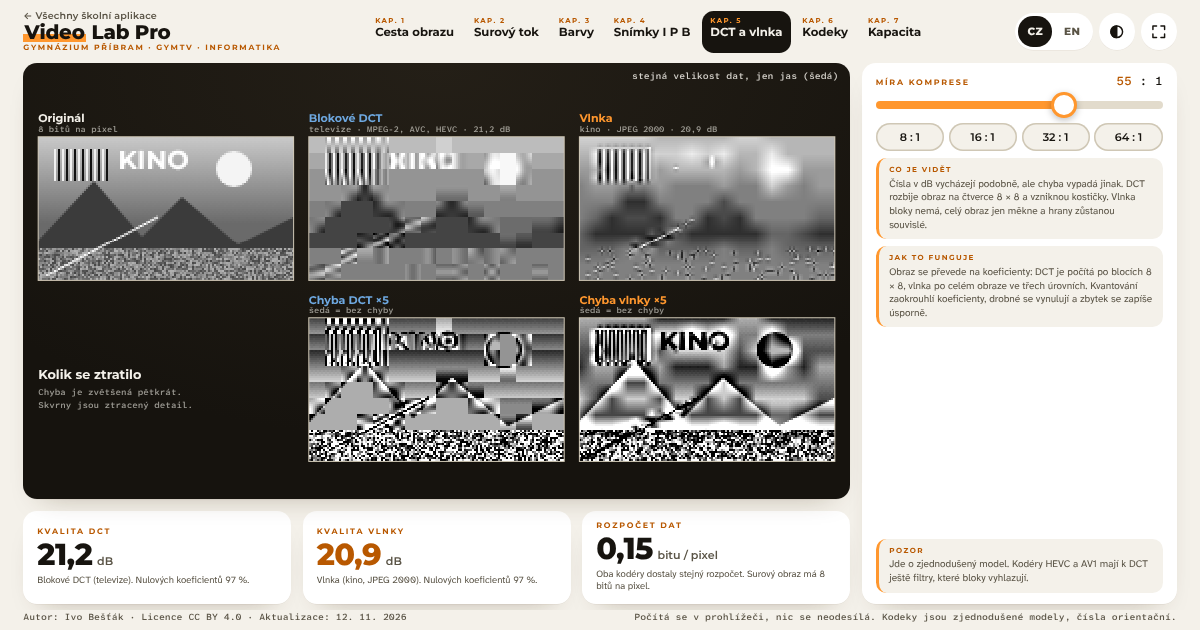
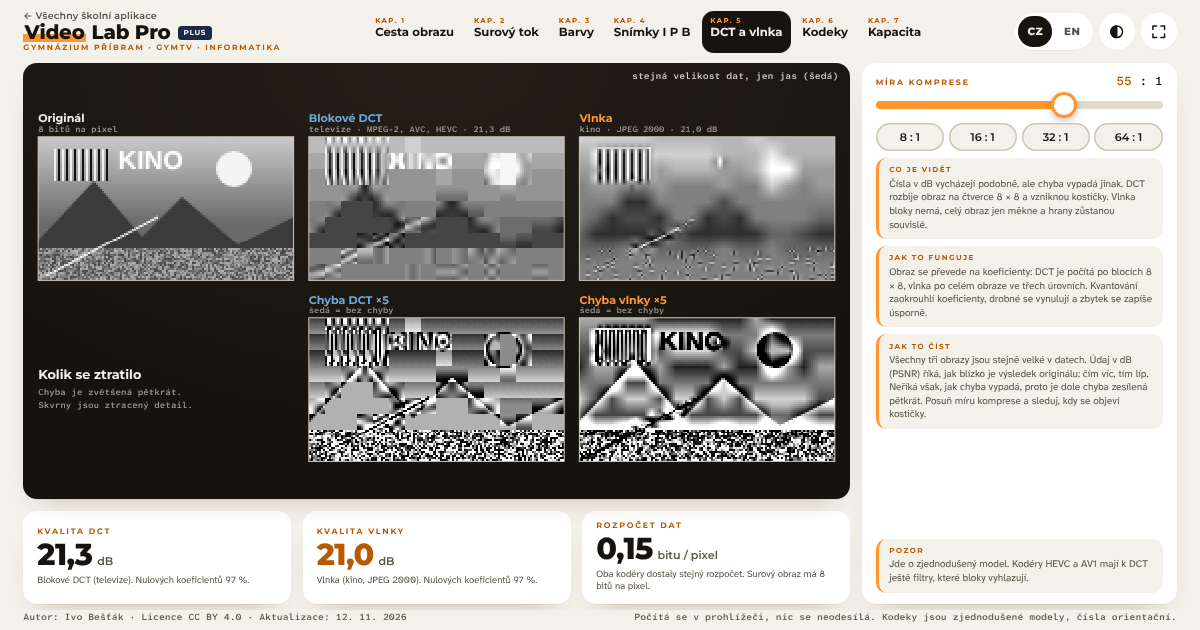
Video Lab Pro: vysvětlující texty a štítek PLUS na celou aplikaci
Claude-Session: https://claude.ai/code/session_01HrWVDL3h42k2gBAKEL8zUt

diff --git a/video-lab-pro/index.html b/video-lab-pro/index.html
@@ -4,7 +4,7 @@
 <meta charset="utf-8">
 <meta name="viewport" content="width=device-width, initial-scale=1">
 <title>Video Lab Pro</title>
-<meta name="description" content="Interaktivní laboratoř kódování a komprese videa pro televizi a kino: datový tok surového obrazu, podvzorkování barev, snímky I, P a B, blokové DCT a vlnka, kodeky MPEG-2, H.264, HEVC, AV1 a JPEG 2000 a kapacita multiplexu i velikost filmu. Určeno pro projekci a velké dotykové panely, pro mobily není vhodná.">
+<meta name="description" content="Interaktivní laboratoř kódování a komprese videa pro televizi a kino: datový tok surového obrazu, podvzorkování barev, snímky I, P a B, blokové DCT a vlnka, kodeky MPEG-2, H.264, HEVC, AV1 a JPEG 2000 a kapacita multiplexu i velikost filmu. Určeno pro projekci a velké dotykové panely, pro mobily není vhodná. Celá aplikace je nad rámec učiva (PLUS).">
 <meta name="author" content="Ivo Bešťák">
 <link rel="icon" href="../favicon.svg" type="image/svg+xml">
 <link rel="stylesheet" href="../assets/fonty/fonty.css">
@@ -132,6 +132,9 @@ input[type=range]::-moz-range-thumb{width:1.7rem;height:1.7rem;border-radius:50%
 .rd{display:grid;grid-template-columns:auto 1fr;gap:.3rem .9rem;font:500 .86rem/1.25 var(--f-mono)}
 .rd span{color:var(--ink2)}.rd b{font-weight:500;text-align:right}.rd b.hot{color:var(--orange-t)}
 .col>.scope.grow{min-height:9rem}
+.brand b span.plus{display:inline-block;vertical-align:middle;margin-left:.6rem;padding:.2rem .5rem;border-radius:.3rem;background:#1b2a4a;color:#fff;font:700 .62rem/1.2 var(--f-head);letter-spacing:.1em}
+:root[data-theme=dark] .brand b span.plus{background:#9db0d8;color:#0f161b}
+@media (prefers-color-scheme:dark){:root:not([data-theme=light]) .brand b span.plus{background:#9db0d8;color:#0f161b}}
 @media (max-aspect-ratio:1/1){
 html{font-size:clamp(9px,1.9vw,22px)}body{overflow:auto}.app{height:auto;min-height:100vh}#stage{overflow:visible}
 .split{grid-template-columns:1fr}.scope{min-height:34rem}.top{grid-template-columns:1fr}.tabs{flex-wrap:wrap}.kpis{grid-template-columns:1fr}}
@@ -141,7 +144,7 @@ html{font-size:clamp(9px,1.9vw,22px)}body{overflow:auto}.app{height:auto;min-hei
 <body>
 <div class="app">
  <header class="top">
-  <div class="brand"><a class="back" href="../" id="tBack">← Všechny školní aplikace</a><b><span>Video</span> Lab Pro</b><small id="tSub">Gymnázium Příbram · GymTV · Informatika</small></div>
+  <div class="brand"><a class="back" href="../" id="tBack">← Všechny školní aplikace</a><b><span>Video</span> Lab Pro<span class="plus" id="tPlus">PLUS</span></b><small id="tSub">Gymnázium Příbram · GymTV · Informatika</small></div>
   <nav class="tabs" id="tabs" role="tablist" aria-label="Záložky"></nav>
   <div class="tools">
    <div class="lang" role="group" aria-label="Jazyk / Language"><button data-act="lang" data-v="cs" lang="cs">CZ</button><button data-act="lang" data-v="en" lang="en">EN</button></div>
@@ -254,9 +257,10 @@ ACT.full=()=>{if(document.fullscreenElement)document.exitFullscreen();else docum
 function boot(){
  try{const th=localStorage.getItem('vlp-theme');if(th==='dark'||th==='light')document.documentElement.dataset.theme=th}catch(e){}
  document.documentElement.lang=LANG;document.title='Video Lab Pro';
- $('meta[name=description]').content=tx('Interaktivní laboratoř kódování a komprese videa pro televizi a kino: datový tok, podvzorkování barev, snímky I, P a B, DCT a vlnka, kodeky a kapacita. Určeno pro projekci a velké dotykové panely, pro mobily není vhodná.','Interactive lab on video coding and compression for television and cinema: data rate, chroma subsampling, I, P and B frames, DCT and wavelets, codecs and capacity. Made for projection and large touch panels, not for phones.');
+ $('meta[name=description]').content=tx('Interaktivní laboratoř kódování a komprese videa pro televizi a kino: datový tok, podvzorkování barev, snímky I, P a B, DCT a vlnka, kodeky a kapacita. Celá aplikace je nad rámec učiva (PLUS). Určeno pro projekci a velké dotykové panely, pro mobily není vhodná.','Interactive lab on video coding and compression for television and cinema: data rate, chroma subsampling, I, P and B frames, DCT and wavelets, codecs and capacity. The whole app goes beyond the curriculum (PLUS). Made for projection and large touch panels, not for phones.');
  $('#tBack').textContent=tx('← Všechny školní aplikace','← All school apps');$('#tSub').textContent=tx('Gymnázium Příbram · GymTV · Informatika','Gymnázium Příbram · GymTV · Computer science');
  $('#tabs').setAttribute('aria-label',tx('Záložky','Tabs'));
+ $('#tPlus').title=tx('Celá aplikace jde nad rámec učiva přiřazených ročníků','The whole app goes beyond the curriculum of the assigned years');
  $('#bThm').setAttribute('aria-label',tx('Světlý nebo tmavý vzhled','Light or dark theme'));$('#bFul').setAttribute('aria-label',tx('Celá obrazovka','Fullscreen'));
  $$('.lang button').forEach(b=>b.classList.toggle('on',b.dataset.v===LANG));
  $('#fL').textContent=tx('Autor: Ivo Bešťák · Licence CC BY 4.0 · Aktualizace: 12. 11. 2026','Author: Ivo Bešťák · License CC BY 4.0 · Updated: 12. 11. 2026');
@@ -391,6 +395,8 @@ TABS.push({name:tx('Cesta obrazu','Picture path'),side:'27rem',
     <div class="ctl"><div class="hd"><span class="lbl">${tx('Formát','Format')}</span></div><div class="chips g2" data-o="fmts1"></div></div>
     <div class="ctl"><div class="hd"><span class="lbl">${tx('Etapa cesty','Stage of the path')}</span></div><div class="chips g2" data-o="stl1"></div></div>
     <div class="callout" data-o="d1"></div>
+    <div class="callout"><b class="l">${tx('Jak to číst','How to read it')}</b>${tx('Každý pruh je jedna etapa cesty. Šedý pruh je obraz bez komprese, modrý je stlačený. Délka pruhu je tok v bitech za sekundu na logaritmické ose, takže každý dílek je desetkrát víc. Kodér obraz stlačuje, dekodér ho vrací.','Each bar is one stage of the path. A grey bar is uncompressed picture, a blue one is compressed. Bar length is the rate in bits per second on a log axis, so every step is ten times more. An encoder compresses the picture, a decoder restores it.')}</div>
+    <div class="callout"><b class="l">${tx('Označení PLUS','PLUS label')}</b>${tx('Celá aplikace jde nad rámec učiva přiřazených ročníků.','The whole app goes beyond the curriculum of the assigned years.')}</div>
     <div class="callout" style="margin-top:auto"><b class="l">${tx('Co z toho plyne','Takeaway')}</b>${tx('Obraz je na začátku i na konci cesty stejně velký. Komprese je jen prostřední úsek, kde se obraz musí vejít do kanálu nebo na disk.','The picture is equally big at the start and at the end of the path. Compression is only the middle section, where the picture has to fit into a channel or onto a disk.')}</div>
    </div></div>`;
  },
@@ -461,6 +467,7 @@ TABS.push({name:tx('Surový tok','Raw data rate'),side:'27rem',
      <div class="chips g3">${['444','422','420'].map(f=>`<button class="chip" data-k="chroma" data-v="${f}">${CH[f].n}</button>`).join('')}</div></div>
     <div class="ctl"><div class="hd"><span class="lbl">${tx('Porovnat s kanálem','Compare with channel')}</span></div><div class="chips g3" data-o="pipes2"></div></div>
     <div class="callout" data-o="d2"></div>
+    <div class="callout"><b class="l">${tx('Jak to číst','How to read it')}</b>${tx('Surový tok je součin pěti čísel: pixely na šířku a na výšku, snímky za sekundu, bity na vzorek a vzorky na pixel. Změň kterékoli z nich a sleduj, jak se tok mění. Oranžová čárka je kapacita zvoleného kanálu a číslo nad ní říká, kolikrát je třeba obraz zmenšit, aby se do kanálu vešel.','The raw rate is a product of five numbers: pixels across and down, frames per second, bits per sample and samples per pixel. Change any of them and watch the rate. The orange line is the capacity of the chosen channel and the number above it says how many times the picture must shrink to fit.')}</div>
    </div></div>`;
  },
  render(){
@@ -586,6 +593,7 @@ TABS.push({name:tx('Barvy','Colour'),side:'27rem',
      <div style="height:6.2rem;position:relative"><canvas id="c3b" style="position:absolute;inset:0;width:100%;height:100%"></canvas></div>
      <p class="n">${tx('Černá tečka je vzorek jasu, oranžová plocha je jeden vzorek barvy.','A black dot is a luma sample, an orange area is one colour sample.')}</p></div>
     <div class="callout" data-o="d3"></div>
+    <div class="callout"><b class="l">${tx('Jak to číst','How to read it')}</b>${tx('Obraz se rozloží na jas (Y), který nese ostrost, a dva barevné rozdíly (Cb, Cr). Podvzorkování nechá jas v každém pixelu a barvu sdílí skupina pixelů. Čísla 4:2:0 popisují blok 4 × 2 pixely: kolik barevných vzorků je v horním a kolik ve spodním řádku. Podívej se na červený kruh a na pruhy, tam se chyba pozná nejlépe.','The picture is split into luma (Y), which carries sharpness, and two colour differences (Cb, Cr). Subsampling keeps luma in every pixel while a group of pixels shares colour. The numbers in 4:2:0 describe a block of 4 × 2 pixels: how many colour samples are in the top and in the bottom row. Look at the red circle and the stripes, the error shows best there.')}</div>
     <div class="callout" style="margin-top:auto"><b class="l">${tx('Proč to funguje','Why it works')}</b>${tx('Oko má mnohem víc tyčinek pro jas než čípků pro barvu, a proto ostrost vnímáme hlavně z jasu. Barevné detaily jde ztratit skoro bez povšimnutí.','The eye has far more rods for luminance than cones for colour, so sharpness is mostly seen in luma. Colour detail can be lost almost unnoticed.')}</div>
    </div></div>`;
  },
@@ -683,6 +691,7 @@ TABS.push({name:tx('Snímky I P B','I, P, B frames'),side:'27rem',
      <div class="seg"><button class="chip" data-k="mc" data-v="false">${tx('Vypnutá','Off')}</button><button class="chip" data-k="mc" data-v="true">${tx('Zapnutá','On')}</button></div></div>
     <div class="rd" data-o="r4"></div>
     <div class="callout" data-o="d4"></div>
+    <div class="callout"><b class="l">${tx('Jak to číst','How to read it')}</b>${tx('Snímek I je celý obraz jako fotka. P ukládá jen změny proti předchozímu snímku, B využívá snímek předchozí i následující. Dole je ukázka pohybu: bez predikce se uloží každá změna pixelu, s predikcí kodér jen určí, kam se předmět posunul, a uloží drobný zbytek.','An I frame is the whole picture like a photo. P stores only changes from the previous frame, B uses both the previous and the next one. Below is a motion demo: without prediction every pixel change is stored, with prediction the encoder only states where the object moved and stores a small residual.')}</div>
    </div></div>`;
  },
  render(){
@@ -893,6 +902,7 @@ TABS.push({name:tx('DCT a vlnka','DCT and wavelet'),side:'27rem',
      <div class="chips g4">${[8,16,32,64].map(v=>`<button class="chip" data-k="q5" data-v="${v}">${v} : 1</button>`).join('')}</div></div>
     <div class="callout" data-o="d5"></div>
     <div class="callout"><b class="l">${tx('Jak to funguje','How it works')}</b>${tx('Obraz se převede na koeficienty: DCT je počítá po blocích 8 × 8, vlnka po celém obraze ve třech úrovních. Kvantování zaokrouhlí koeficienty, drobné se vynulují a zbytek se zapíše úsporně.','The picture is turned into coefficients: DCT computes them in 8 × 8 blocks, a wavelet over the whole picture in three levels. Quantization rounds them, small ones become zero and the rest is stored compactly.')}</div>
+    <div class="callout"><b class="l">${tx('Jak to číst','How to read it')}</b>${tx('Všechny tři obrazy jsou stejně velké v datech. Údaj v dB (PSNR) říká, jak blízko je výsledek originálu: čím víc, tím líp. Neříká však, jak chyba vypadá, proto je dole chyba zesílená pětkrát. Posuň míru komprese a sleduj, kdy se objeví kostičky.','All three pictures take the same amount of data. The dB value (PSNR) says how close the result is to the original: more is better. It does not tell how the error looks, so the error is magnified five times below. Move the compression ratio and see when blocks appear.')}</div>
     <div class="callout" style="margin-top:auto"><b class="l">${tx('Pozor','Note')}</b>${tx('Jde o zjednodušený model. Kodéry HEVC a AV1 mají k DCT ještě filtry, které bloky vyhlazují.','This is a simplified model. HEVC and AV1 encoders add filters to the DCT that smooth the blocks.')}</div>
    </div></div>`;
  },
@@ -961,7 +971,7 @@ TABS.push({name:tx('Kodeky','Codecs'),side:'27rem',
     <div class="ctl"><div class="hd"><span class="lbl">${tx('Kodek','Codec')}</span></div><div class="chips g2" data-o="cdl"></div></div>
     <div class="rd" data-o="r6"></div>
     <div class="callout" data-o="d6"></div>
-    <div class="callout" style="margin-top:auto"><b class="l">${tx('Pozor','Note')}</b>${tx('Toky jsou orientační model podle běžných zkušeností. Skutečný tok závisí na obsahu, kodéru i nastavení.','The rates are an approximate model based on common experience. The real rate depends on content, encoder and settings.')}</div>
+    <div class="callout"><b class="l">${tx('Jak to číst','How to read it')}</b>${tx('Délka pruhu je tok pro Full HD při stejném vizuálním dojmu. Procenta vpravo ukazují tok proti MPEG-2. Kodeky s predikcí mezi snímky jsou úsporné, ale snímky na sobě závisejí. ProRes a JPEG 2000 ukládají každý snímek zvlášť: tok je mnohem vyšší, ale střih a přístup k libovolnému snímku jsou snadné.','Bar length is the rate for Full HD at the same visual quality. Percentages on the right show the rate against MPEG-2. Codecs with prediction between frames are economical, but frames depend on each other. ProRes and JPEG 2000 store each frame alone: the rate is much higher, but editing and access to any frame are easy.')}</div>
    </div></div>`;
  },
  init(){
@@ -1021,7 +1031,7 @@ OUT.fmt7=()=>F7.map(f=>`<button class="chip${S.f7===f?' on':''}" data-k="f7" dat
 OUT.d7=()=>{
  const r=rate(S.c7),n=Math.floor(cap()/r);
  return n<1?`<b class="l">${tx('Nevejde se','Does not fit')}</b>${tx('Jeden program je větší než celý kanál. Je třeba účinnější kodek nebo menší obraz.','One programme is bigger than the whole channel. A more efficient codec or a smaller picture is needed.')}`
- :`<b class="l">${tx('Proč se to řeší','Why it matters')}</b>${tx('Kapacita kanálu je pevná, takže každý bit ušetřený kodekem znamená místo pro další program nebo lepší obraz. Proto televize přecházejí od MPEG-2 na HEVC.','Channel capacity is fixed, so every bit saved by the codec makes room for another programme or a better picture. That is why television moves from MPEG-2 to HEVC.')}`;
+ :`<b class="l">${tx('Proč se to řeší','Why it matters')}</b>${tx('Kapacita kanálu je pevná, každý ušetřený bit znamená místo pro další program.','Channel capacity is fixed, every saved bit makes room for another programme.')}`;
 };
 TABS.push({name:tx('Kapacita','Capacity'),side:'27rem',
  build(){
@@ -1042,7 +1052,7 @@ TABS.push({name:tx('Kapacita','Capacity'),side:'27rem',
     <div class="ctl"><div class="hd"><span class="lbl">${tx('Jak je film stlačen','How the film is compressed')}</span></div>
      <div class="chips g3">${Object.keys(FILM).map(k=>`<button class="chip" data-k="fm" data-v="${k}" style="padding:.4rem .1rem;font-size:.82rem">${FILM[k].n}</button>`).join('')}</div></div>
     <div class="rd" data-o="r7"></div>
-    <div class="callout" data-o="d7"></div>
+    <div class="callout"><b class="l">${tx('Jak to číst','How to read it')}</b>${tx('Nahoře: každý blok je jeden program v kanálu. Dole: velikost filmu je tok krát délka. Zelená čára = film se vejde, červená = nevejde.','Top: each block is one programme in the channel. Bottom: film size is rate times length. Green line = film fits, red = it does not.')}</div>
    </div></div>`;
  },
  render(){
